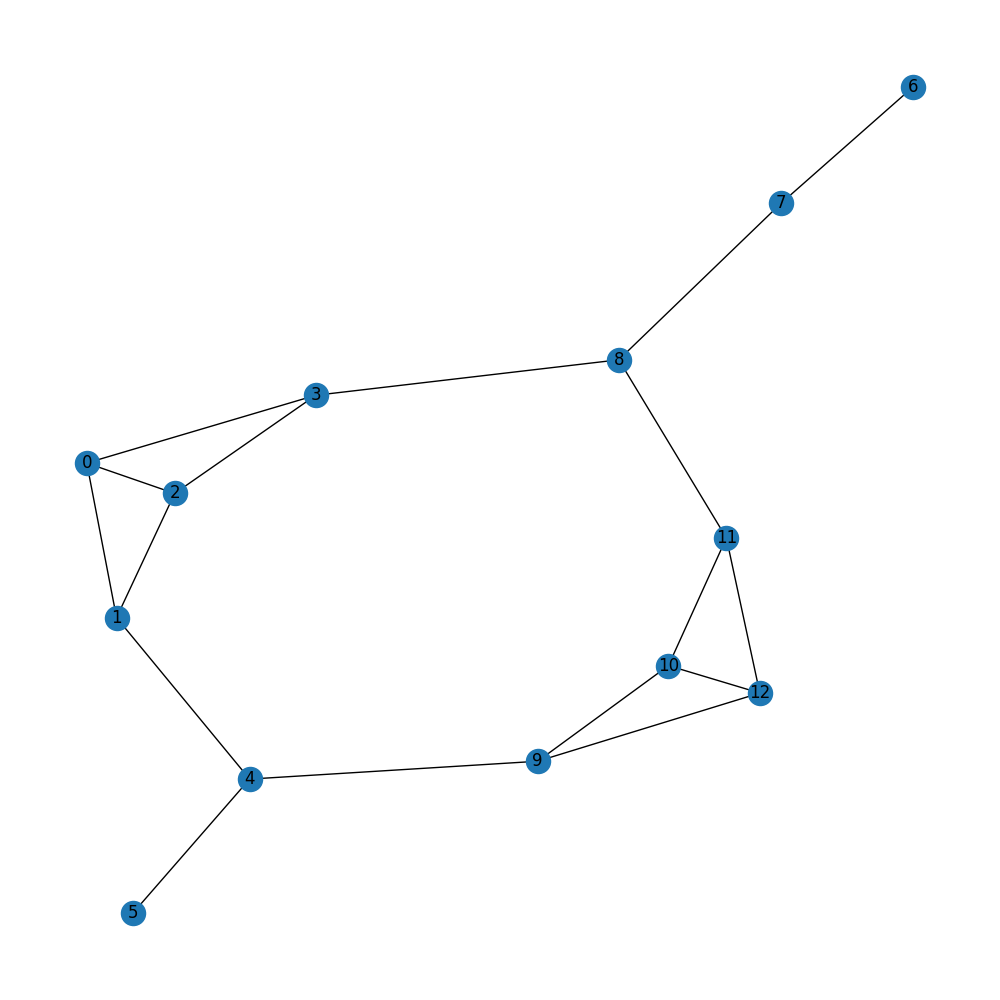
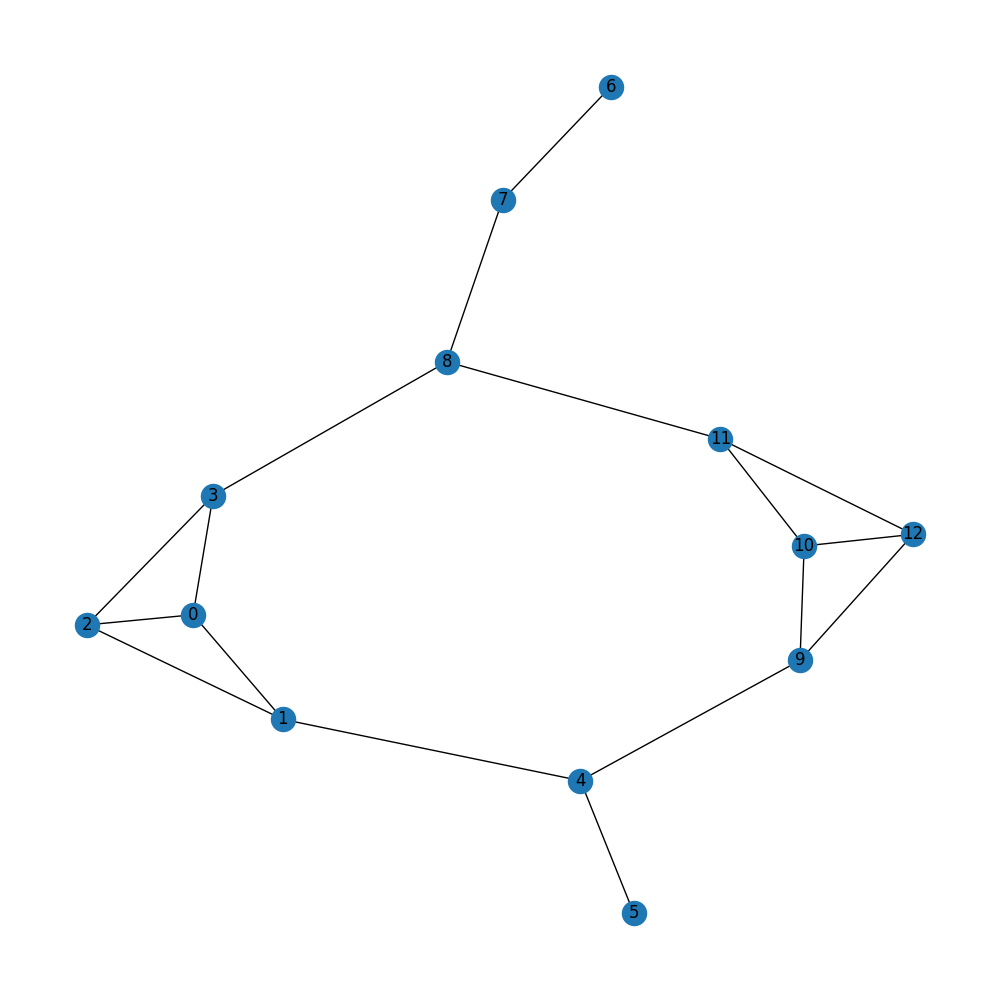
input

diff --git a/questao5e6_v2.cpp b/questao5e6_v2.cpp
@@ -1,4 +1,4 @@
-// QUESTAO 5 PROJETO FINAL
+// QUESTAO 5 e 6 PROJETO FINAL
 // GRUPO - Felipe Curcio, Rodrigo Parracho
 #include<iostream> // Biblioteca padrao de entrada e saida
 #include "MyDynamicArrayRealloc.h" // Módulo implementado por mim no arquivo MyDynamicArrayRealloc.h
@@ -79,7 +79,12 @@ class Graph {
         int nodes_length;
         DynamicArray<Node*> nodes;
 
+        Graph() {}
         Graph(int n_length) : nodes_length(n_length) {}
+
+        void setNodesLength(int length) {
+            this->nodes_length = length;
+        }
 
         Node* getNode(int id) {
             Node* node;
@@ -336,16 +341,63 @@ void insertEdges(Graph &G) {
     G.insertEdge(G.getNode(12), G.getNode(11), 14);
 }
 
-int main(int argc, char* argv[]) {
-    int nodes_length = 13;
+void insertEdgesFromInput(Graph &G) {
+    // deverão ser realizados testes com diferentes valores dos parâmetros
+    int weight;
+    int uId;
+    int vId;
+    cout << endl;
+    cout << "=== Get graph from user ===" << endl;
+    cout << "Example input:" << endl;
+    cout << "5 for weight, 0 for U id and 1 for V id" << endl;
+    cout << "The edge between V (node 1) and U (node 0) will be automatically inserted" << endl;
+    cout << endl;
+    while(true) {
+        cout << "Insert weight for edge, entry -1 will stop:" << endl;
+        cin >> weight;
+        if(weight == -1) break;
+        cout << "Insert node U id, values between " << 0 << " and " << G.nodes_length - 1 << endl;
+        cin >> uId;
+        cout << "Insert node V id, values between " << 0 << " and " << G.nodes_length - 1 << endl;
+        cin >> vId;
+        G.insertEdge(G.getNode(uId), G.getNode(vId), weight);
+        G.insertEdge(G.getNode(vId), G.getNode(uId), weight);
+    }
+}
 
-    Graph G(13);
+void getArgv(int argc, char* argv[], string &weight, string &input) {
+    if(argc == 1) return;
+    for(int i = 0; i < argc; i++) {
+        for(int j = 0; argv[i][j] != '\0'; j++) {
+            if(argv[i][j] == '-') {
+                if(argv[i][j+1] == 'w') weight = argv[i + 1];
+                if(argv[i][j+1] == 'i') input = argv[i + 1];
+            }
+        }
+    }
+}
+
+int main(int argc, char* argv[]) {
+    int nodes_length;
+    Graph G;
+    string weight = "M";
+    string input_from_user = "n";
+    getArgv(argc, argv, weight, input_from_user);
+
+    if(input_from_user.compare("n") == 0) nodes_length = 13;
+    else {
+        cout << "Insert the number of vertices in the Graph:" << endl;
+        cin >> nodes_length;
+    }
+
+    G.setNodesLength(nodes_length);
     for(int i = 0; i < G.nodes_length; i++) {
         Node* n = new Node(i);
         G.insertNode(n);
     }
 
-    insertEdges(G);
+    if(input_from_user.compare("n") == 0) insertEdges(G);
+    else insertEdgesFromInput(G);
 
     // for debugging, print state
     // G.printState();
@@ -371,15 +423,12 @@ int main(int argc, char* argv[]) {
     G.clearEdges();
     // G.printState();
 
-    string m = "M";
-    if(argc == 2) m = argv[1];
-
     DynamicArray<DynamicArray<bool>> N(nodes_length, DynamicArray<bool>(nodes_length, false));
     cout << "Starting algorithm..." << endl;
     while(!G.isConnected()) {
         Edge e;
-        if(m.compare("M") == 0) e = G.getHeavierEdge(N, matrix); // pega maior peso não utilizado
-        else if(m.compare("m") == 0) e = G.getLighterEdge(N, matrix); // pega menor peso não utilizado
+        if(weight.compare("M") == 0) e = G.getHeavierEdge(N, matrix); // pega maior peso não utilizado
+        else if(weight.compare("m") == 0) e = G.getLighterEdge(N, matrix); // pega menor peso não utilizado
         G.insertEdge(G.getNode(e.nodeIdU), G.getNode(e.nodeIdV), e);
         G.insertEdge(G.getNode(e.nodeIdV), G.getNode(e.nodeIdU), e);
         N[e.nodeIdU][e.nodeIdV] = true;

diff --git a/dataVisualizer.py b/dataVisualizer.py
@@ -22,7 +22,7 @@ nx.draw(G, with_labels=True)
 plt.savefig("Graph.png", format="PNG")
 plt.clf()
 
-output = np.array([[0 for _ in range(13)] for _ in range(13)])
+output = np.array([[0 for _ in range(A.shape[0])] for _ in range(A.shape[0])])
 with open('output.csv', 'r') as r:
     reader, = csv.reader(r, delimiter=',')
     # print(reader)

diff --git a/README.md b/README.md
@@ -21,25 +21,36 @@ g++ questao5e6_v2.cpp -o questao5e6_v2.exe
 ```
 
 ```shell
-./questao5e6_v2.exe M
+./questao5e6_v2.exe
 ```
 
-- 'M' é o argumento informando ao algoritmo que será usado o maior peso. Argumento opcional,
-  o default eh pegar o maior peso.
+ou
 
 ```shell
-./questao5e6_v2.exe m
+./questao5e6_v2.exe -w M -i n
 ```
 
-- 'm', argumento que informa ao algoritmo para usar o menor peso. Referente à questão 6.
+"-w" e "-i" são argumentos opcionais. Os valores default para -w (weight) e -i (input from user) são, respectivamente, "M" (pegar o maior peso) e "n" (não esperar entrada do usuário, usar o grafo da imagem "nodesMapa2.png").
+
+- "-w M" será usado o maior peso entre arestas.
+- "-w m" será usado o menor peso entre arestas. Referente à questão 6.
+
+- '-i n' o programa não espera entrada do usuário, o grafo é gerado a partir da imagem "nodesMapa2.png".
+- '-i y' o programa espera entrada do usuário, o usuário insere o número de vértices no grafo, e arestas até que o peso da aresta inserida seja "-1".
+
+Questão 6:
+
+```shell
+./questao5e6_v2.exe -w m -i n
+```
 
 Após executar o código, serão gerados dois arquivos csv: "weightsMatrix.csv" e "output.csv"
 
 - "weightsMatrix.csv" é a matriz de pesos do grafo que foi inserido, neste caso
-  corresponde ao grafo na imagem nodesMapa.png
+  corresponde ao grafo na imagem nodesMapa2.png (ou o grafo inserido pelo usuário).
 
 - "output.csv" é a saída do algoritmo, no caso da questao5e6 a saída é printada no console
-  (como mostrado no algortimo no livro) e também é escrita nesse arquivo. Na questão 7, é
+  (como mostrado no algoritmo no livro) e também é escrita nesse arquivo. Na questão 7, é
   apenas escrito o arquivo (não é printado no console), pois, por ter uma grande quantidade de
   vértices e arestas fica dificil de visualizar a saída.
 
